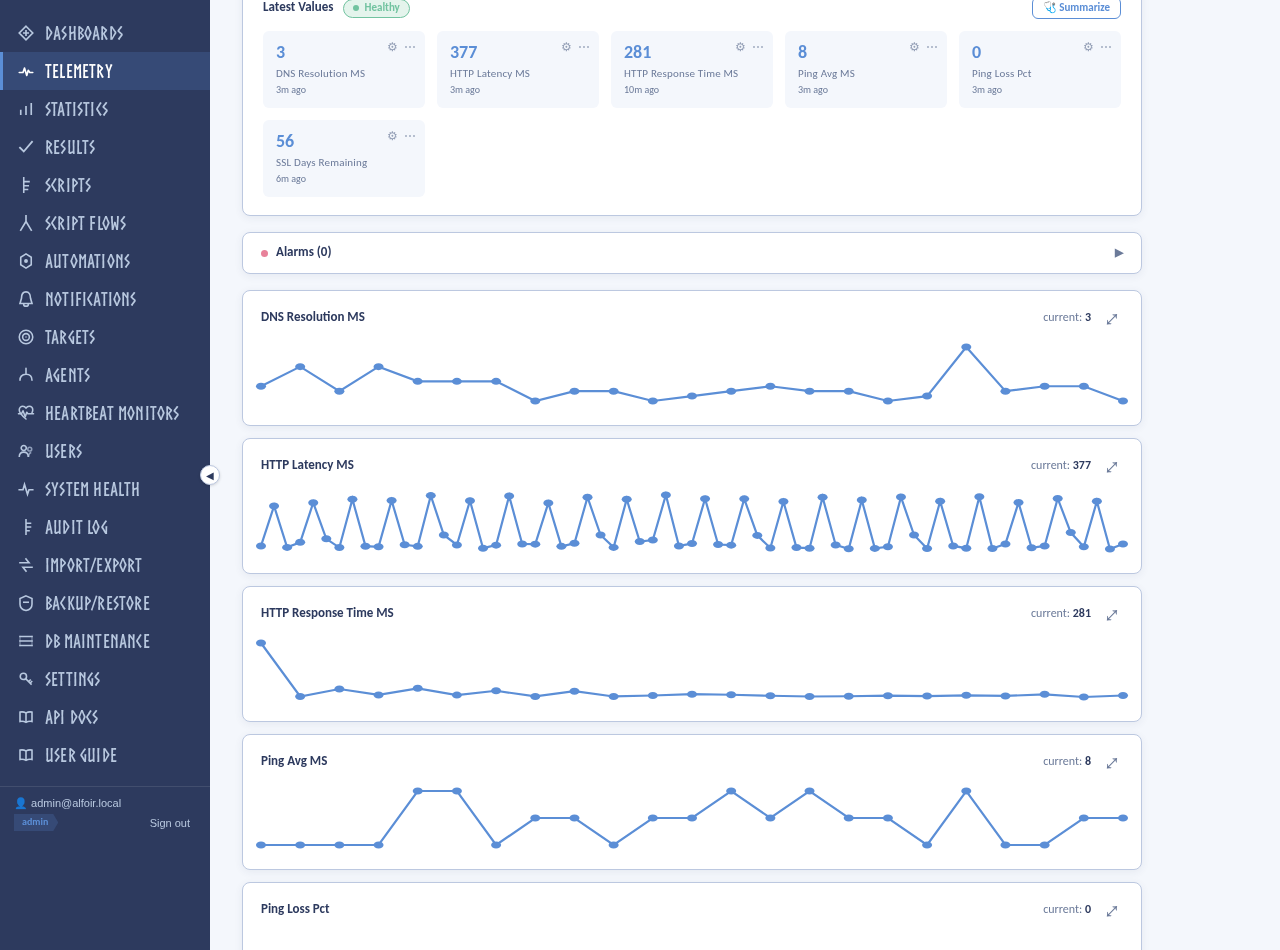
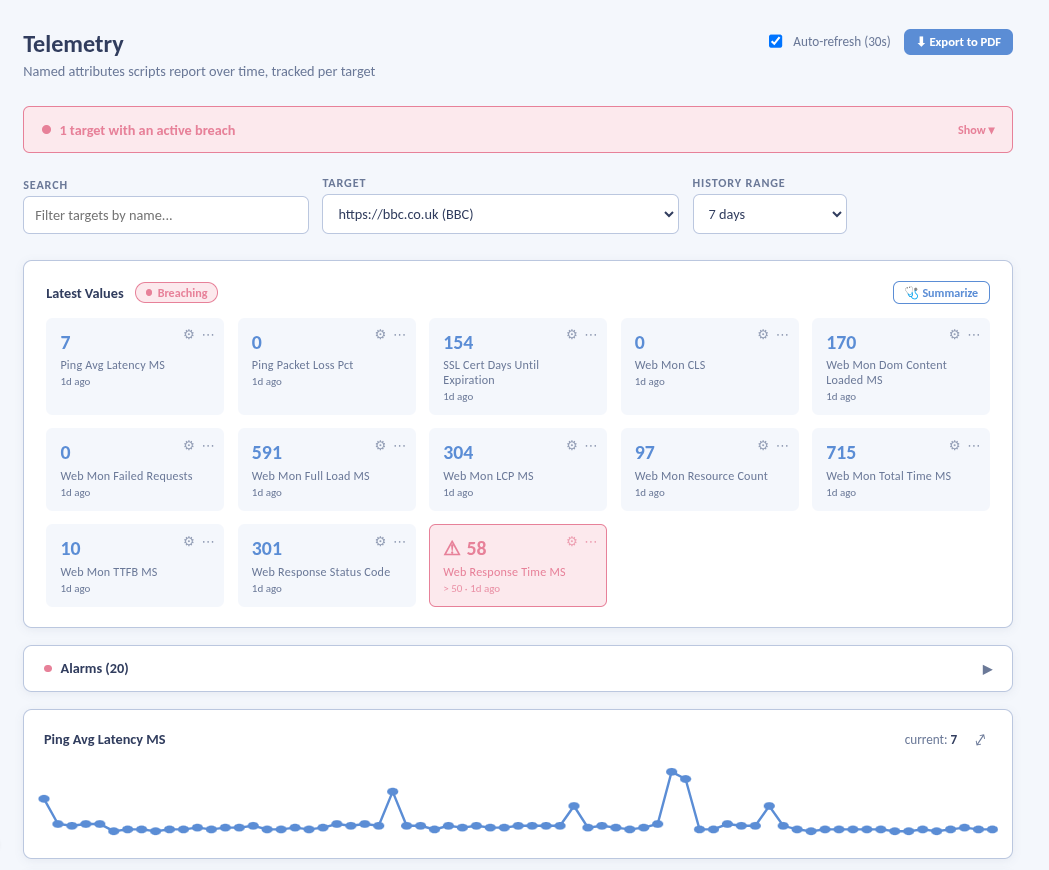
Alfoir: Telemetry and Statistics with weeks of history

diff --git a/alfoir/README.md b/alfoir/README.md
@@ -95,15 +95,15 @@ Every run keeps what happened, target by target and step by step: the output, th
 
 Whatever a check measures, it can report to Telemetry: response times, days left on a certificate, disk free, queue lag, call quality. Alfoir keeps the history per target, shows the latest values, charts each one over time, flags values that cross a threshold, and lists every target with a failing check across the fleet. The AI can summarise a target's telemetry in a few lines.
 
-![Telemetry for google.com](images/09-telemetry.png)
+![Telemetry for the BBC website](images/09-telemetry.png)
 
-*Google from the PC over one evening: DNS lookups of 3–14 ms, HTTP responses of 352–620 ms (median 378), a ping of 8 ms, and 56 days left on its certificate.*
+*The BBC website on a demo instance with a week of history: ping, certificate days left, Core Web Vitals from the full page audit (largest contentful paint 304 ms), and Web Response Time over its threshold (58 ms against 50), shown in red.*
 
 **Statistics** looks across all of it: pass rates by automation and target, trends by week, how often thresholds were breached, and anomaly detection that flags a day that departs from the rolling average.
 
 ![Statistics with an anomaly flagged](images/10-statistics.png)
 
-*871 target checks over the demo, 728 passed. Most failures are deliberate (badssl.com's broken certificates); the anomaly is real: today's pass rate, 61% above the rolling average of the days before, when mostly phone tests ran.*
+*Four weeks on a demo instance: pass and fail by week, an anomalous day flagged, threshold breaches per day (Web Response Time the most often, 280 times), and each automation's pass rate.*
 
 ---
 
@@ -178,4 +178,4 @@ One container with PostgreSQL, the Node.js backend and the web UI behind nginx, 
 
 ## Status
 
-Alfoir is under active development. A unit-test suite runs with every change, regression tests run catalog checks against real containers, and the catalog's scripts are checked against real systems before they ship. Everything in this overview was captured from one running instance on a home PC, checking public websites and badssl.com's deliberately broken sites from the PC and a laptop over one evening, except the status page, taken from a demo instance with more history.
+Alfoir is under active development. A unit-test suite runs with every change, regression tests run catalog checks against real containers, and the catalog's scripts are checked against real systems before they ship. Everything in this overview was captured from one running instance on a home PC, checking public websites and badssl.com's deliberately broken sites from the PC and a laptop over one evening, except Telemetry, Statistics and the status page, taken from a demo instance with weeks of history.
